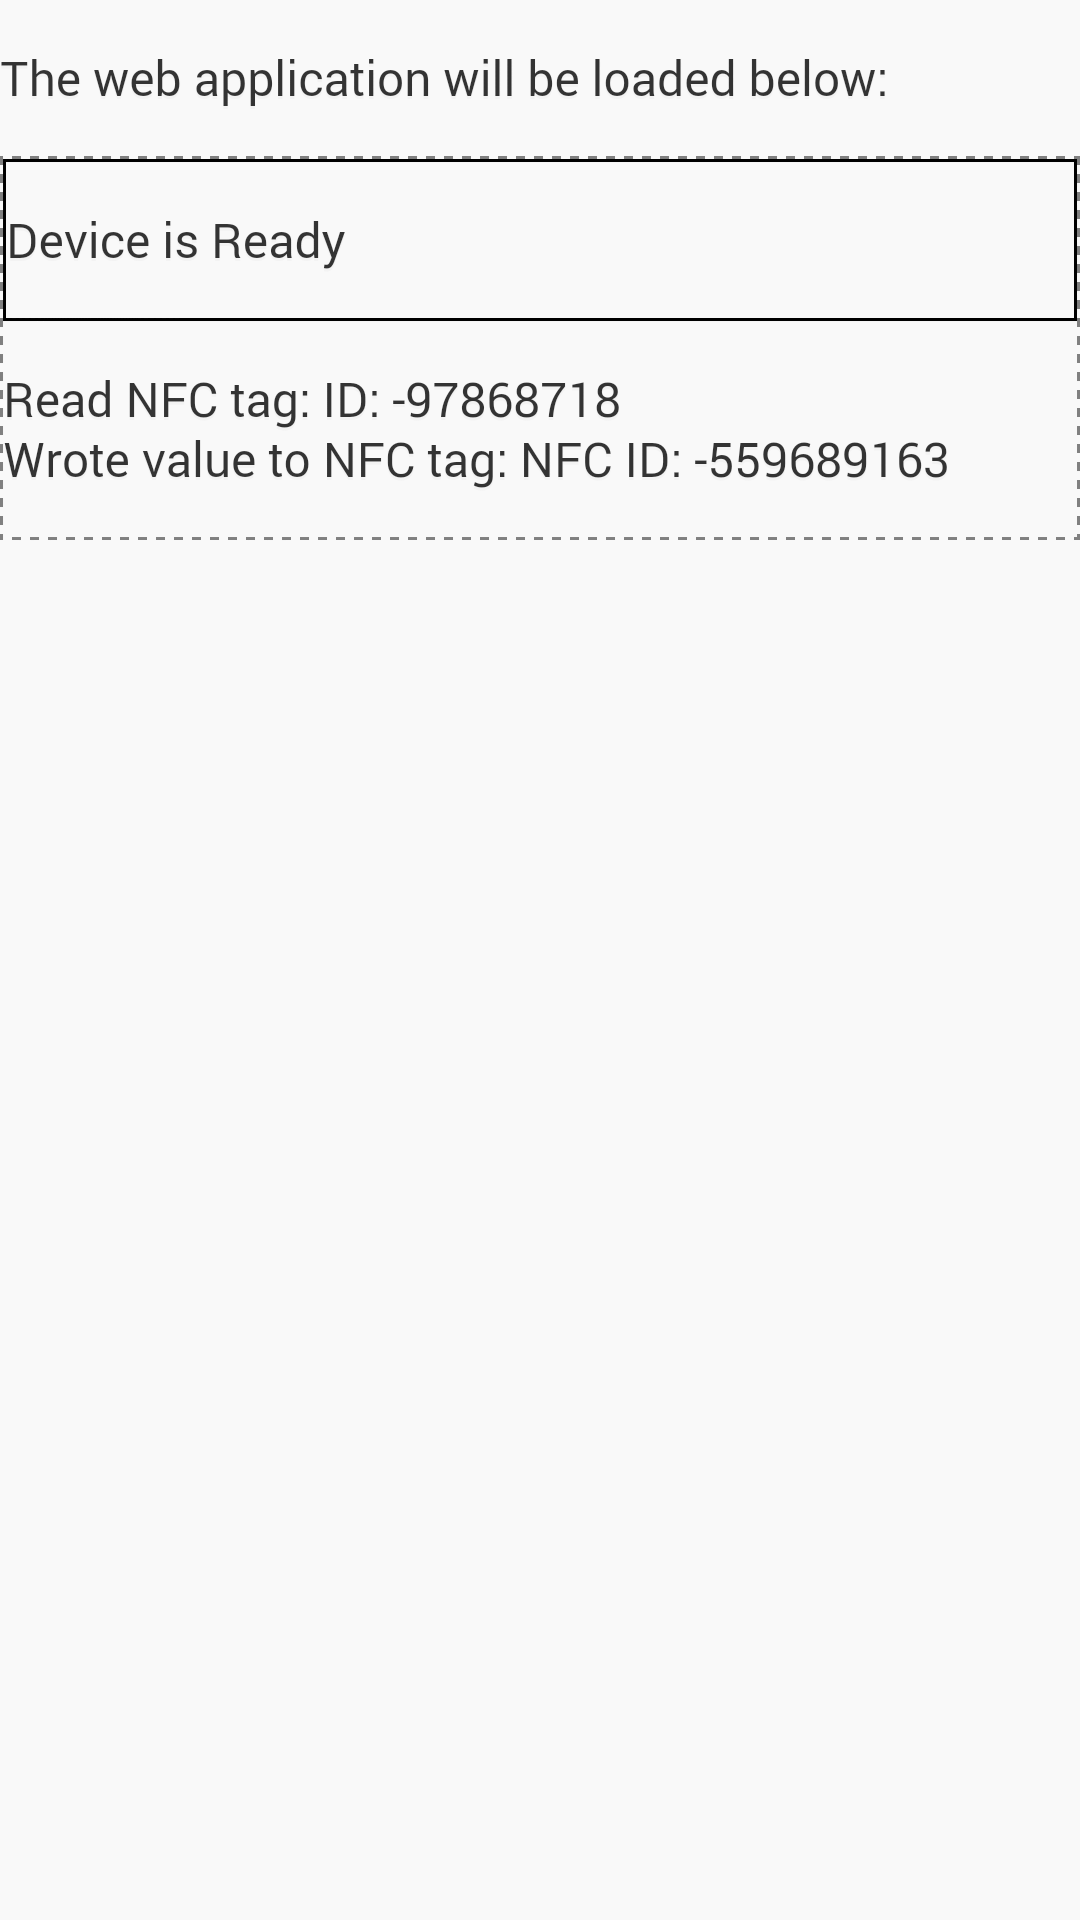
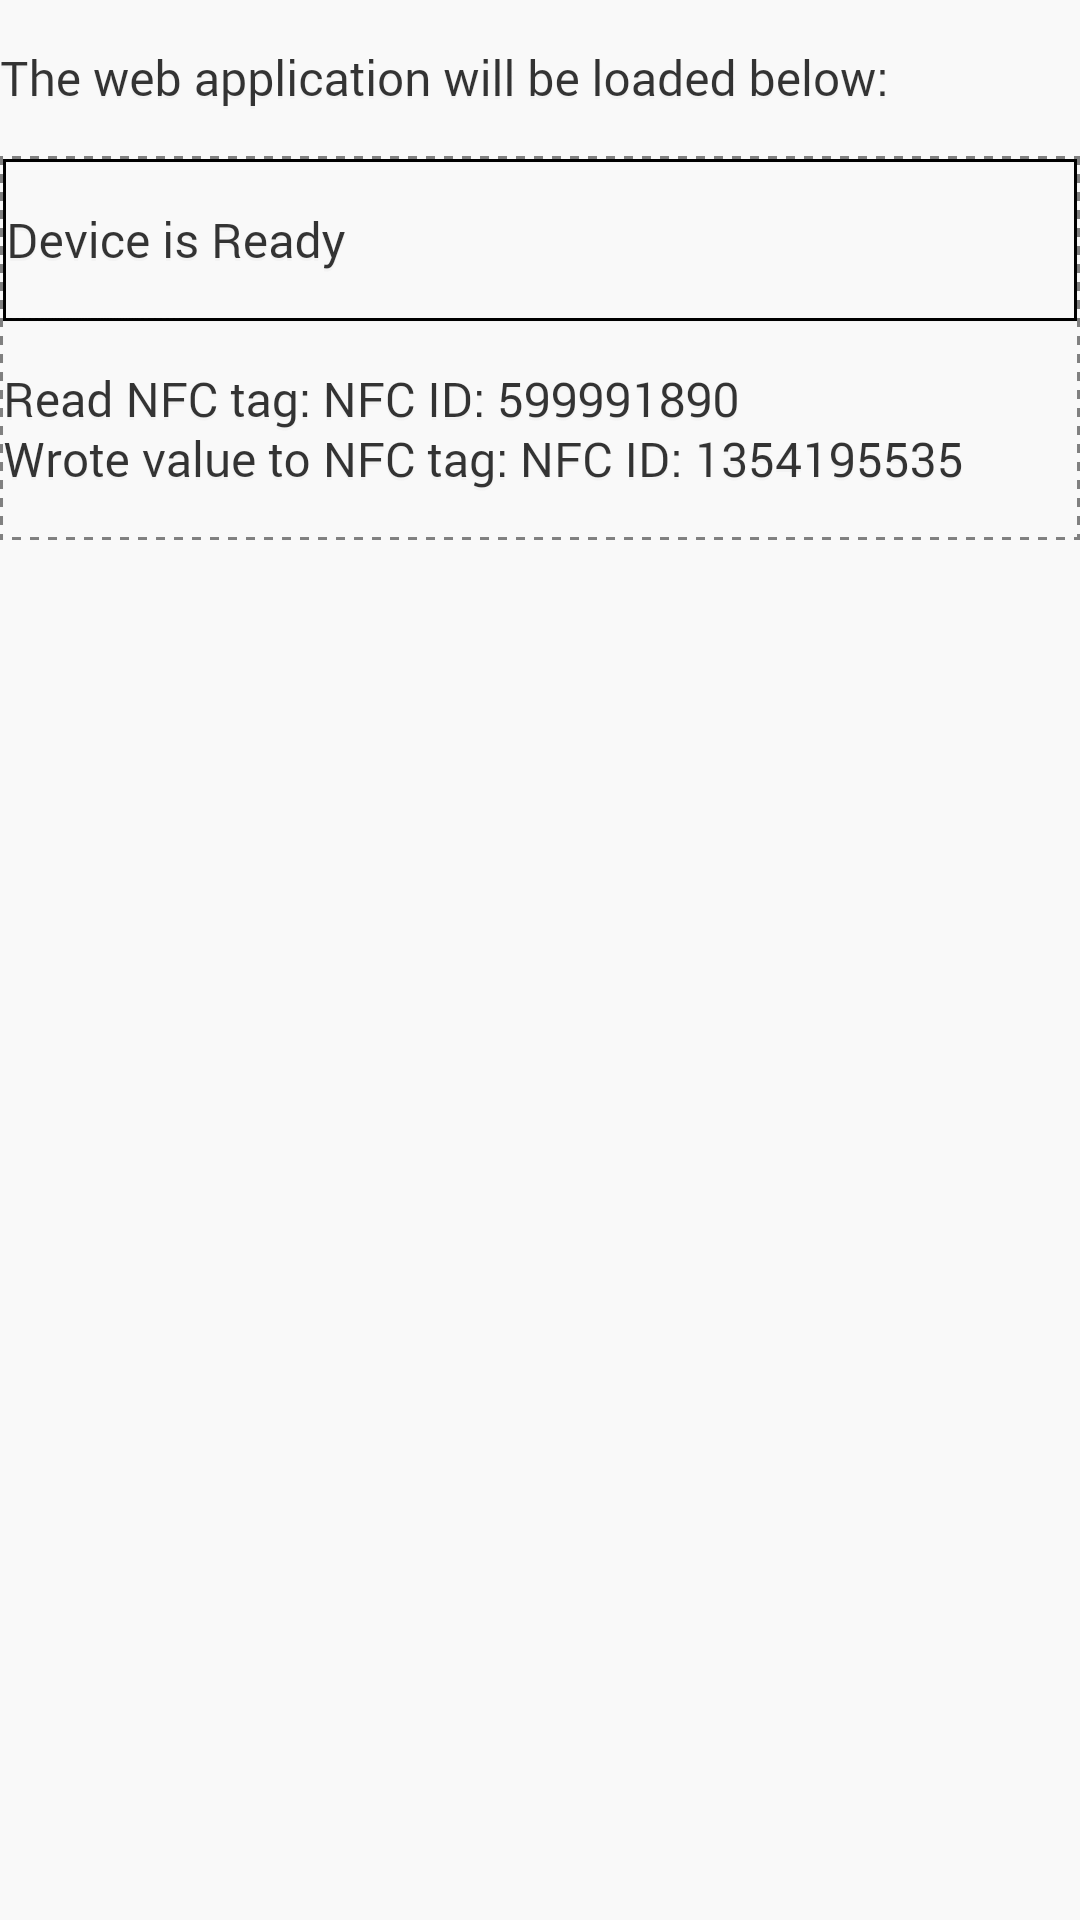
Fixed the cosmetic issue with the text record header.

Changed region(s): [[0.3056, 0.1875, 0.8861, 0.25]]

diff --git a/server/src/main/webapp/index.html b/server/src/main/webapp/index.html
@@ -57,7 +57,7 @@
 
             // The example payload is in "id" JSON element.
             var payload = data.id;
-            var message = ndef.mimeMediaRecord(mimeType, nfc.stringToBytes(payload));
+            var message = ndef.textRecord(payload);
 
             nfc.write(
               [message],

diff --git a/README.md b/README.md
@@ -139,8 +139,3 @@ write your NFC chips (remotely) and possibly cause trouble.
 
 For large projects you might want to switch to TypeScript and for example angular.js.
 Communications between the client and the server can be done bidirectionally with socket.io for example.
-
-The NFC reader actually ignores the three byte header from the NFC record, but
-the writer does not encode such a header currently. For this reason, the word
-"NFC" is missing from the screenshot above in the read tag contents. This is
-considered a feature, not a bug.
